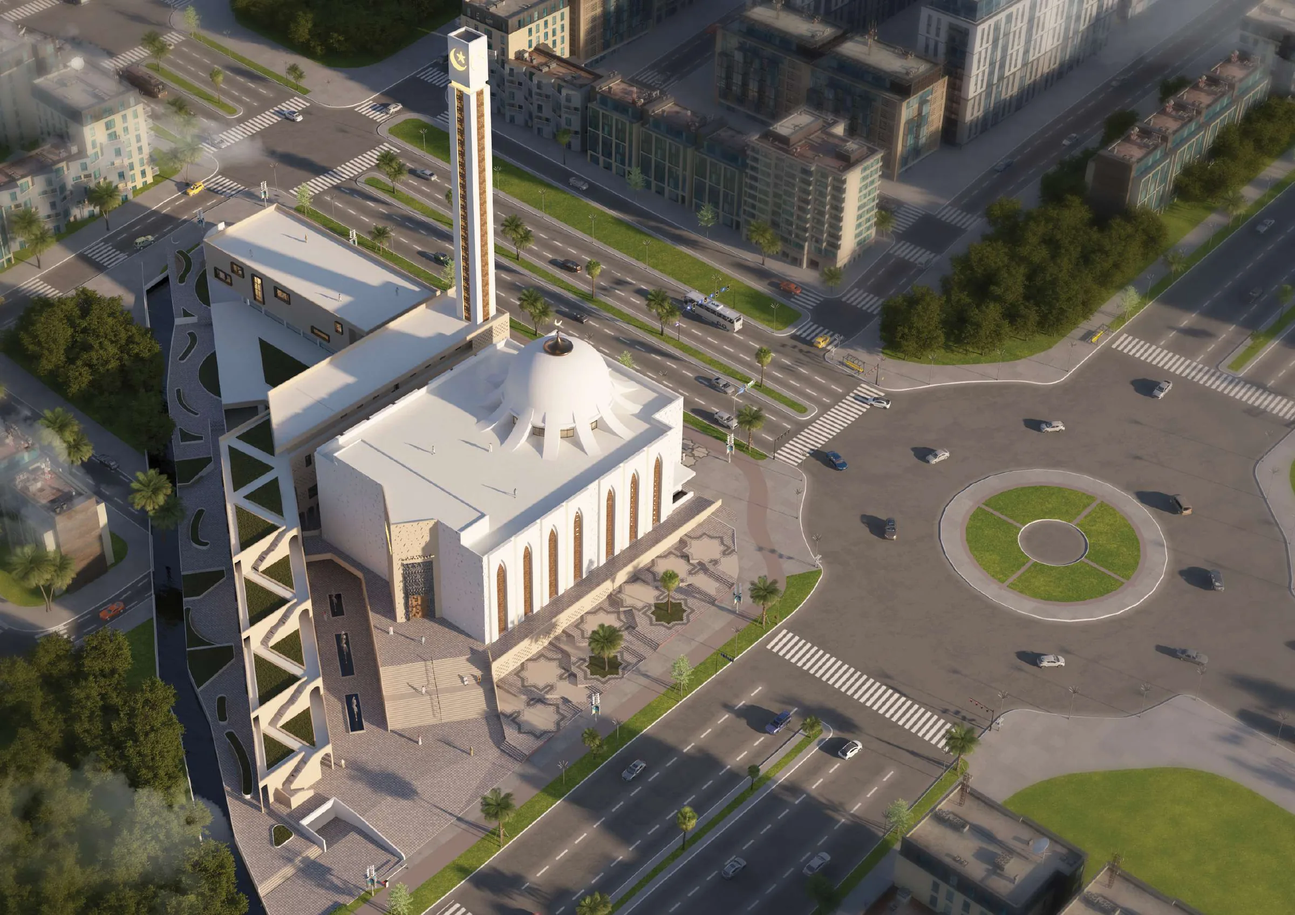
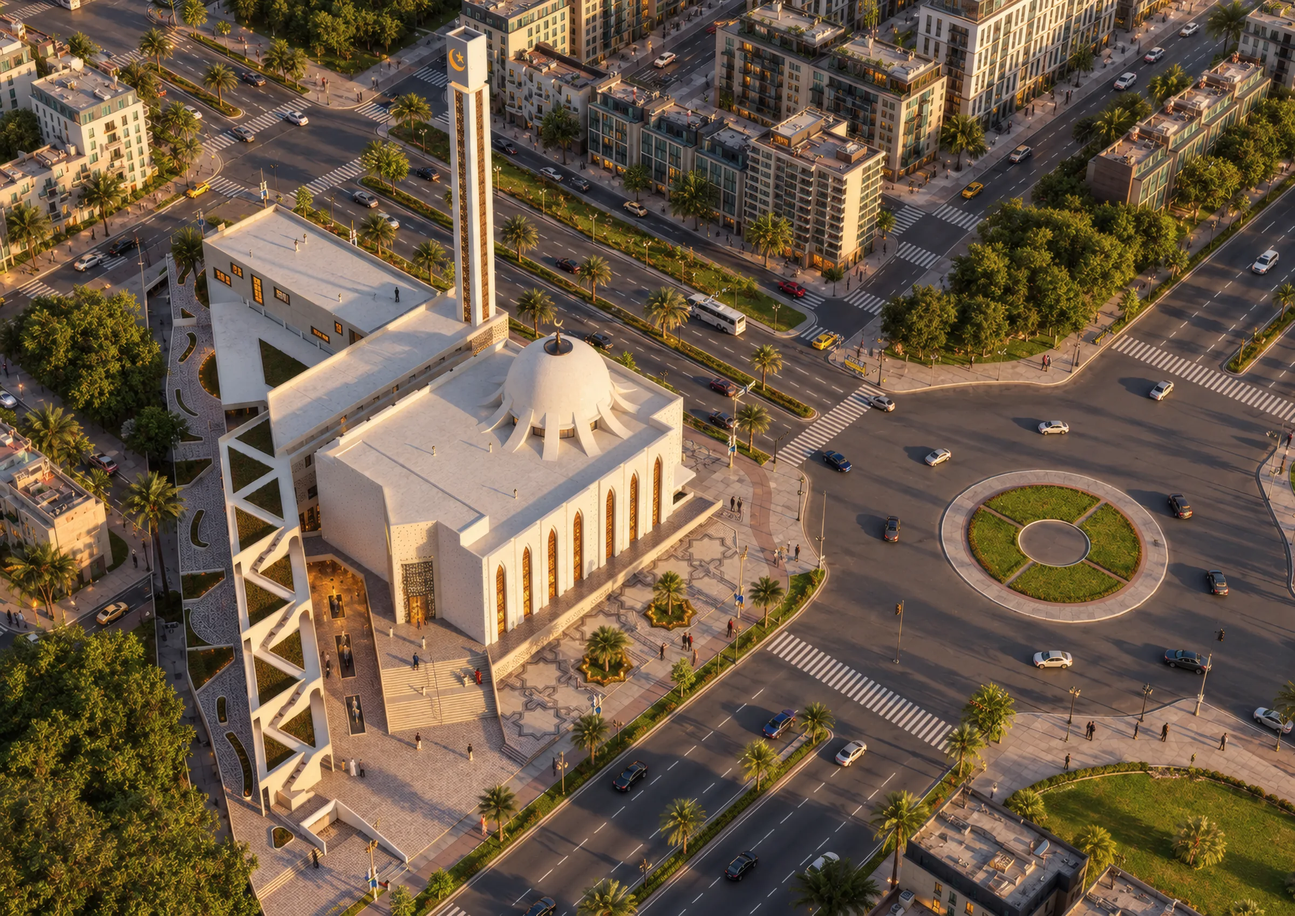
Swap in enhanced hero renders and update CV
Twelve hero and cover renders replaced with the enhanced versions Ab
supplied (same framing, up to 2400 px wide). About page updated from the
October 2026 CV: new role at AZAD Design Build, Ovid Kling dates to 2026,
ECDSWC title, eight years of experience.

Claude-Session: https://claude.ai/code/session_01NWmG8iTX6wmbZ4eTDMxGfh

diff --git a/src/content/profile.ts b/src/content/profile.ts
@@ -1,8 +1,10 @@
 import type { Profile } from "./types";
 
 /**
- * Personal information, taken from the portfolio PDF (pages 2–3 and the
- * certificates at the end). Nothing here is inferred beyond that source.
+ * Personal information, taken from the CV (October 2026) and the portfolio
+ * PDF (pages 2–3 and the certificates at the end). Nothing here is inferred
+ * beyond those sources; award years and certificate details come from the
+ * portfolio, which gives them where the CV does not.
  */
 export const profile: Profile = {
   name: "Abirham Taye",
@@ -10,9 +12,9 @@ export const profile: Profile = {
   location: "Addis Ababa, Ethiopia",
   statement: "Buildings, interiors and cities, from 780 m² to 548 hectares.",
   bio: [
-    "I am an architect and urban designer based in Addis Ababa, with more than six years of experience planning, designing and delivering work across building and urban design.",
+    "I am an architect and urban designer based in Addis Ababa, with more than eight years of experience delivering high-rise, mixed-use and housing projects from concept to completion.",
     "The work moves between scales: an exhibition interior of 780 m², student housing and apartment buildings, competition headquarters towers of thirty storeys, and masterplans for new city districts in Ethiopia and Iraq.",
-    "Alongside design I lead teams and manage projects from concept to completion, coordinating multidisciplinary consultants and stakeholders so that the design intent holds through technical requirements, programme and budget.",
+    "Alongside design I lead multidisciplinary teams and coordinate the work across disciplines, from BIM-driven documentation to detailed design, so that the design intent holds through to a buildable, high-quality result.",
   ],
   portrait: {
     src: "/images/about/portrait.webp",
@@ -25,7 +27,17 @@ export const profile: Profile = {
   phone: "+251 98 582 2275",
   experience: [
     {
-      period: "2023 – 2025",
+      period: "2026 – present",
+      title: "Senior Architect, Design Coordinator, BIM Specialist",
+      place: "AZAD Design Build PLC",
+      location: "Addis Ababa, Ethiopia",
+      points: [
+        "Leading architectural design and documentation, coordinating design disciplines across projects.",
+        "Developing and managing BIM models and coordination workflows.",
+      ],
+    },
+    {
+      period: "2023 – 2026",
       title: "Senior Architect, Architectural Team Leader",
       place: "Ovid Kling Consult PLC",
       location: "Addis Ababa, Ethiopia",
@@ -40,7 +52,7 @@ export const profile: Profile = {
     },
     {
       period: "Jan 2019 – Feb 2023",
-      title: "Architect, Landscape Designer",
+      title: "Architect",
       place: "Ethiopian Construction Design & Supervision Works Corporation (ECDSWC)",
       location: "Addis Ababa, Ethiopia",
       points: [
